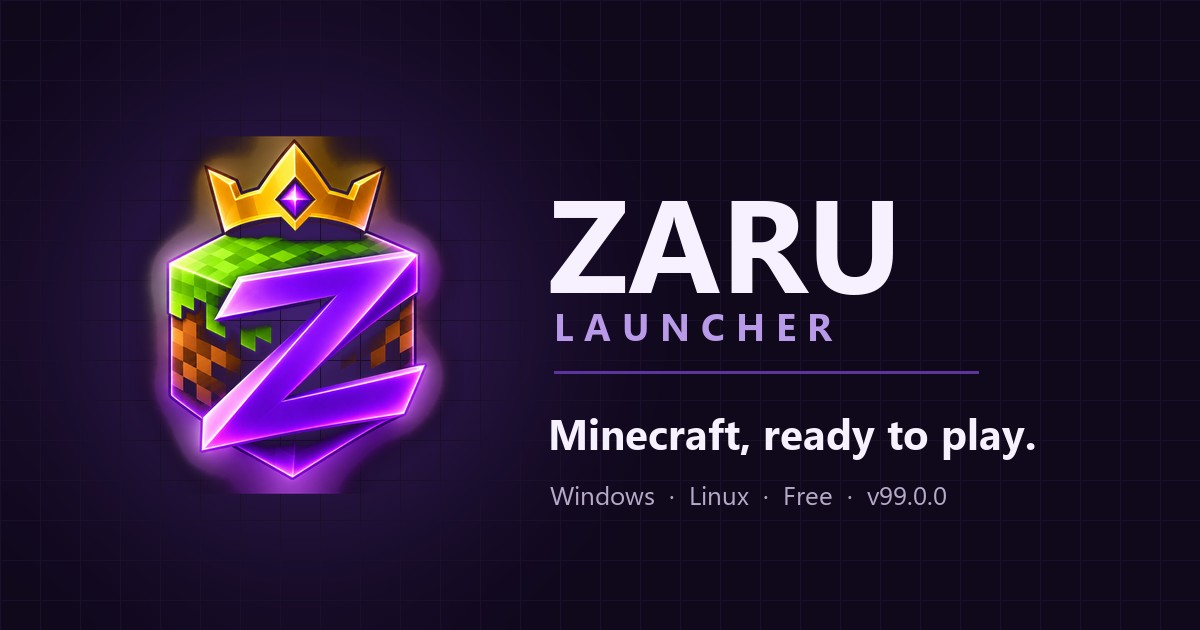
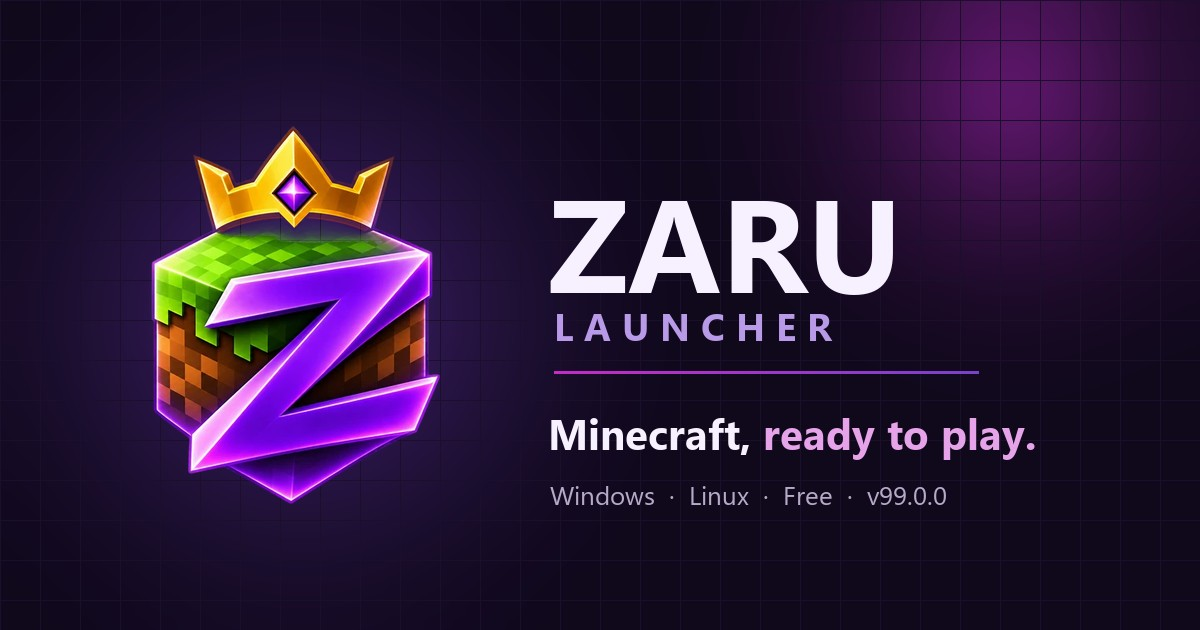
Bring the launcher's magenta into the site's amethyst theme.
The site was amethyst only; the launcher is magenta (#BA28BB / #D32ED3 from
zaru-launcher src/styles/02-kit.css). Both now share one theme: buttons and
step numbers run magenta into violet, "ready to play." takes an orchid tint of
the launcher purple while "Zaru handles the rest." keeps the amethyst lilac,
and glows, frame edges, ticks, labels, checksums, focus ring, selection and
scrollbar use the pair. The share card follows. White on the buttons holds
4.6:1 at the magenta end and 6:1 at the violet end.

diff --git a/index.html b/index.html
@@ -73,8 +73,13 @@
       --amethyst:     #7546C8;
       --amethyst-dp:  #5C349E;
       --lilac:        #B99AE8;
-      /* Pulled from the logo's own grass block and crown. */
-      --grass:        #7ACB3B;
+      /* The launcher's own purple (zaru-launcher src/styles/02-kit.css). It shares the stage. */
+      --magenta:      #BA28BB;
+      --magenta-hi:   #D32ED3;
+      --orchid:       #E7A3EA;
+      /* Both purples in one stroke; white text holds 4.6:1 at the magenta end, 6:1 at the violet. */
+      --duo:          linear-gradient(135deg, #C42CC6 0%, #8E3BCB 55%, #7A42CC 100%);
+      /* The crown, kept for the one warning on the page. */
       --gold:         #F2B32E;
       --ink:          #F7F0FF;
       --muted:        #B7A9C8;
@@ -112,11 +117,16 @@
     }
     img { max-width: 100%; }
     a { color: inherit; }
-    :focus-visible { outline: 2px solid var(--lilac); outline-offset: 3px; border-radius: 4px; }
+    :focus-visible { outline: 2px solid var(--orchid); outline-offset: 3px; border-radius: 4px; }
+    ::selection { background: rgba(211,46,211,.38); color: #fff; }
+    html { scrollbar-color: var(--magenta) var(--bg); }
+    ::-webkit-scrollbar { width: 12px; }
+    ::-webkit-scrollbar-track { background: var(--bg); }
+    ::-webkit-scrollbar-thumb { background: linear-gradient(180deg, var(--magenta), var(--amethyst)); border-radius: 8px; border: 3px solid var(--bg); }
 
     .skip {
       position: absolute; left: 12px; top: -56px; z-index: var(--z-skip);
-      background: var(--lilac); color: #10091C;
+      background: var(--orchid); color: #10091C;
       padding: 9px 13px; border-radius: 8px; font-weight: 700; text-decoration: none;
     }
     .skip:focus { top: 12px; }
@@ -170,14 +180,14 @@
     .nav-burger i::before, .nav-burger i::after { content: ""; position: absolute; left: 0; }
     .nav-burger i::before { top: -5px; }
     .nav-burger i::after { top: 5px; }
-    .nav-check:focus-visible + .nav-burger { outline: 2px solid var(--lilac); outline-offset: 3px; }
+    .nav-check:focus-visible + .nav-burger { outline: 2px solid var(--orchid); outline-offset: 3px; }
     .nav-links { display: flex; align-items: center; margin-left: auto; gap: 2px; }
     .nav-links a {
       color: var(--muted); text-decoration: none; font-weight: 600; font-size: .97rem;
       padding: 8px 11px; border-radius: var(--r-sm);
       transition: color .18s var(--ease), background .18s var(--ease);
     }
-    .nav-links a:not(.nav-dl):hover { color: var(--ink); background: rgba(255,255,255,.05); }
+    .nav-links a:not(.nav-dl):hover { color: var(--ink); background: rgba(211,46,211,.10); }
     .nav-dl { margin-left: 10px; padding: 9px 15px !important; min-height: 40px; }
 
     /* ---------- buttons ---------- */
@@ -192,12 +202,12 @@
     .btn svg { width: 19px; height: 19px; flex: none; }
     .btn-fill {
       color: #fff;
-      background: linear-gradient(180deg, #8355d6 0%, var(--amethyst-dp) 100%);
-      box-shadow: 0 10px 24px rgba(117,70,200,.32), inset 0 1px 0 rgba(255,255,255,.22);
+      background: var(--duo);
+      box-shadow: 0 10px 26px rgba(186,40,187,.30), 0 4px 14px rgba(117,70,200,.28), inset 0 1px 0 rgba(255,255,255,.24);
     }
-    .btn-fill:hover { transform: translateY(-2px); box-shadow: 0 16px 32px rgba(117,70,200,.42), inset 0 1px 0 rgba(255,255,255,.22); }
+    .btn-fill:hover { transform: translateY(-2px); box-shadow: 0 16px 34px rgba(186,40,187,.42), 0 6px 18px rgba(117,70,200,.32), inset 0 1px 0 rgba(255,255,255,.24); }
     .btn-line { color: var(--ink); background: rgba(255,255,255,.03); border-color: var(--line); }
-    .btn-line:hover { background: var(--surface-2); border-color: rgba(185,154,232,.45); transform: translateY(-2px); }
+    .btn-line:hover { background: var(--surface-2); border-color: rgba(211,46,211,.5); transform: translateY(-2px); }
     .btn:active { transform: translateY(0); }
 
     /* ---------- hero ---------- */
@@ -211,6 +221,13 @@
       mask-image: radial-gradient(860px 560px at 74% 34%, #000 0%, transparent 72%);
       -webkit-mask-image: radial-gradient(860px 560px at 74% 34%, #000 0%, transparent 72%);
     }
+    .hero::after {
+      /* a magenta wash behind the copy, answering the amethyst glow behind the art */
+      content: ""; position: absolute; z-index: var(--z-art); pointer-events: none;
+      left: -12%; top: -24%; width: 62%; height: 86%;
+      background: radial-gradient(closest-side, rgba(186,40,187,.15), transparent);
+    }
+    .h-accent { color: var(--orchid); }
     .hero-grid {
       position: relative; z-index: var(--z-content);
       display: grid; grid-template-columns: minmax(0,1fr) minmax(0,1.02fr);
@@ -225,8 +242,10 @@
     .stage { position: relative; width: 100%; aspect-ratio: 100 / 106; }
     .stage-glow {
       position: absolute; inset: 4% 2% 0; border-radius: 50%;
-      background: radial-gradient(closest-side, rgba(117,70,200,.55), rgba(117,70,200,.16) 55%, transparent 100%);
-      filter: blur(8px);
+      background:
+        radial-gradient(closest-side at 70% 32%, rgba(211,46,211,.40), transparent 70%),
+        radial-gradient(closest-side, rgba(117,70,200,.55), rgba(117,70,200,.16) 55%, transparent 100%);
+      filter: blur(10px);
     }
     .stage img { position: absolute; display: block; height: auto; user-select: none; -webkit-user-drag: none; }
     .isl { width: 74%; left: 13%; bottom: 0; animation: bobIsl 11s var(--ease-io) infinite; }
@@ -278,7 +297,7 @@
     }
     .proof li { display: flex; align-items: center; gap: 10px; color: var(--muted); font-size: .99rem; }
     .proof b { color: var(--ink); font-weight: 600; }
-    .tick { width: 16px; height: 16px; flex: none; color: var(--grass); }
+    .tick { width: 16px; height: 16px; flex: none; color: var(--magenta-hi); }
 
     /* ---------- shared ---------- */
     .frame {
@@ -291,7 +310,7 @@
     }
     .frame::after {
       content: ""; position: absolute; inset: -1px; border-radius: var(--r);
-      background: linear-gradient(145deg, rgba(185,154,232,.42), transparent 42%, transparent 62%, rgba(117,70,200,.28));
+      background: linear-gradient(145deg, rgba(185,154,232,.45), transparent 40%, transparent 60%, rgba(211,46,211,.42));
       -webkit-mask: linear-gradient(#000 0 0) content-box, linear-gradient(#000 0 0);
       -webkit-mask-composite: xor; mask-composite: exclude;
       padding: 1px; pointer-events: none;
@@ -311,7 +330,7 @@
     .way { padding: 20px 0; border-bottom: 1px solid var(--line-soft); }
     .way:first-child { padding-top: 0; }
     .way h3 { display: flex; align-items: baseline; gap: 10px; font-size: 1.35rem; }
-    .way h3 small { font-family: var(--body); font-size: .9rem; font-weight: 600; letter-spacing: 0; color: var(--lilac); }
+    .way h3 small { font-family: var(--body); font-size: .9rem; font-weight: 600; letter-spacing: 0; color: var(--orchid); }
     .way p { color: var(--muted); margin-top: 7px; }
     .aside { margin-top: 20px; color: var(--muted); font-size: .99rem; }
     .aside b { color: var(--ink); }
@@ -337,6 +356,7 @@
     .dl-band {
       background:
         radial-gradient(760px 380px at 18% 0%, rgba(117,70,200,.30), transparent 64%),
+        radial-gradient(640px 340px at 90% 100%, rgba(186,40,187,.22), transparent 66%),
         linear-gradient(180deg, var(--bg-2), var(--bg) 85%);
       border-top: 1px solid var(--line-soft); border-bottom: 1px solid var(--line-soft);
     }
@@ -347,8 +367,8 @@
       padding: clamp(20px,2.4vw,26px);
       transition: transform .22s var(--ease), border-color .22s var(--ease), box-shadow .22s var(--ease);
     }
-    .os:hover { transform: translateY(-3px); border-color: rgba(185,154,232,.4); box-shadow: var(--shadow); }
-    .os-top { display: flex; align-items: center; gap: 11px; color: var(--lilac); }
+    .os:hover { transform: translateY(-3px); border-color: rgba(211,46,211,.45); box-shadow: var(--shadow), 0 0 0 1px rgba(117,70,200,.18); }
+    .os-top { display: flex; align-items: center; gap: 11px; color: var(--orchid); }
     .os-top svg { width: 22px; height: 22px; }
     .os-top span { font-family: var(--display); font-weight: 700; font-size: 1.05rem; letter-spacing: -.02em; color: var(--ink); }
     .os p { color: var(--muted); }
@@ -364,7 +384,7 @@
     .sums div { background: var(--bg-2); border: 1px solid var(--line-soft); border-radius: var(--r-sm); padding: 12px 14px; }
     .sums dt { color: var(--muted); font-size: .9rem; margin-bottom: 4px; }
     .sums dd { margin: 0; }
-    .sums code { font-size: .8rem; color: var(--lilac); }
+    .sums code { font-size: .8rem; color: var(--orchid); }
     .how { margin-top: 12px; color: var(--muted); font-size: .95rem; }
 
     /* ---------- requirements ---------- */
@@ -379,7 +399,7 @@
     .step p { color: var(--muted); margin-top: 11px; }
     .num {
       width: 29px; height: 29px; display: grid; place-items: center; border-radius: 8px;
-      background: linear-gradient(180deg, #8355d6, var(--amethyst-dp)); color: #fff;
+      background: var(--duo); color: #fff;
       font-family: var(--display); font-weight: 700; font-size: .9rem;
       box-shadow: inset 0 1px 0 rgba(255,255,255,.25);
     }
@@ -393,10 +413,14 @@
 
     /* ---------- upstream ---------- */
     .up { display: grid; grid-template-columns: auto minmax(0,1fr); gap: clamp(22px,4vw,44px); align-items: center;
-          background: var(--surface); border: 1px solid var(--line); border-radius: var(--r); padding: clamp(24px,3.4vw,40px); }
+          background:
+            radial-gradient(520px 260px at 0% 0%, rgba(186,40,187,.16), transparent 62%),
+            radial-gradient(560px 280px at 100% 100%, rgba(117,70,200,.20), transparent 62%),
+            var(--surface);
+          border: 1px solid var(--line); border-radius: var(--r); padding: clamp(24px,3.4vw,40px); }
     .up img { width: 108px; height: 108px; display: block; }
     .up p { color: var(--muted); margin-top: 12px; max-width: 62ch; }
-    .up a { color: var(--lilac); }
+    .up a { color: var(--orchid); }
 
     /* ---------- faq ---------- */
     details.q { border-bottom: 1px solid var(--line); }
@@ -408,7 +432,7 @@
     details.q summary::-webkit-details-marker { display: none; }
     details.q summary::after {
       content: ""; width: 8px; height: 8px; flex: none; margin-top: -4px;
-      border-right: 1.6px solid var(--lilac); border-bottom: 1.6px solid var(--lilac);
+      border-right: 1.6px solid var(--orchid); border-bottom: 1.6px solid var(--orchid);
       transform: rotate(45deg); transition: transform .2s var(--ease);
     }
     details.q[open] summary::after { transform: rotate(225deg); margin-top: 4px; }
@@ -421,6 +445,7 @@
     .foot-brand img { width: 28px; height: 28px; }
     .foot p { max-width: 70ch; }
     footer a { color: var(--ink); }
+    footer a:hover, .up a:hover { color: var(--magenta-hi); }
 
     /* ---------- reveals: additive, and each one fits what it reveals ---------- */
     @keyframes openShot { from { opacity: .35; transform: scale(.965); clip-path: inset(5% 4% round 16px); } to { opacity: 1; transform: none; clip-path: inset(0 round 0); } }
@@ -497,7 +522,7 @@
       <div class="wrap">
         <div class="hero-grid">
           <div class="hero-copy">
-            <h1>Minecraft,<br>ready to play.</h1>
+            <h1>Minecraft,<br><span class="h-accent">ready to play.</span></h1>
             <p class="lede">Zaru installs Minecraft, Java and a tuned Fabric pack for you. Sign in with Microsoft or start with a nickname, then press Play.</p>
             <div class="cta-row">
               <a class="btn btn-fill" href="downloads/Zaru.Launcher_99.0.0_x64-setup.exe" download="Zaru.Launcher_99.0.0_x64-setup.exe">
